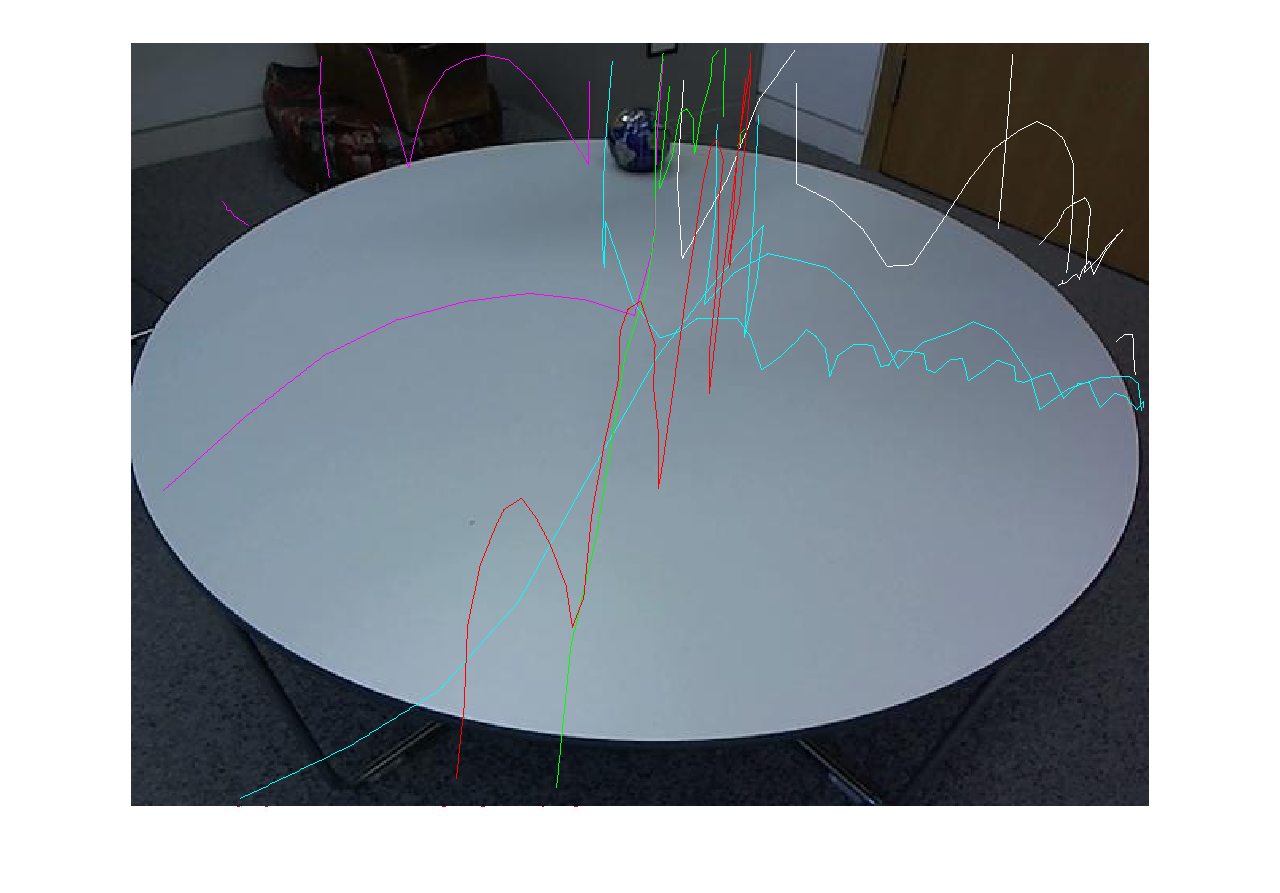
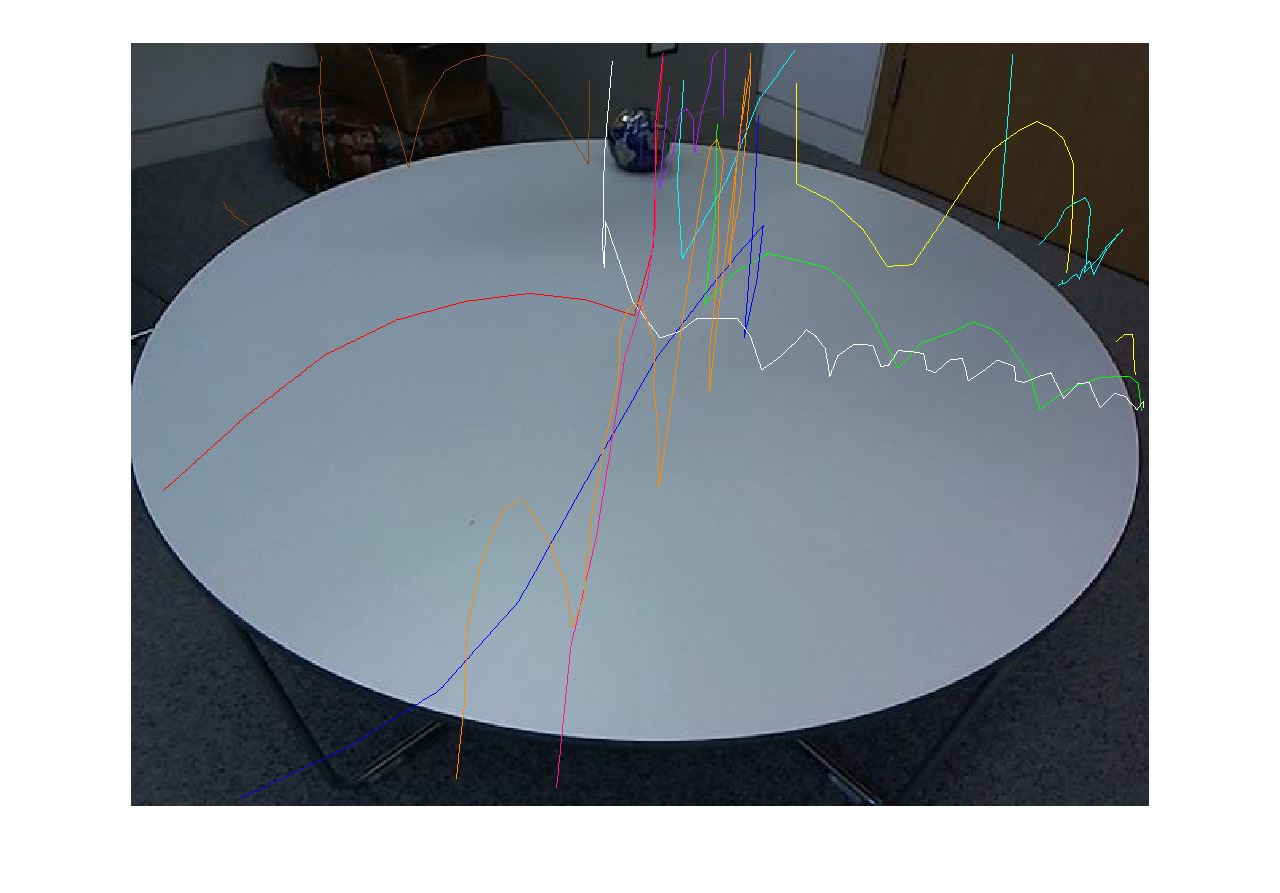
More colors

Changed region(s): [[0.5312, 0.0907, 0.5938, 0.3628], [0.5, 0.1512, 0.5312, 0.2116]]

diff --git a/draw_truth.m b/draw_truth.m
@@ -3,17 +3,15 @@ background = imread('bgframe.jpg');
 imshow(background)
 hold on
 
-COLORS = {'red', 'green', 'blue', 'yellow', 'cyan', 'black', 'white', 'magenta'};
+COLORS = {'red', 'green', 'blue', 'yellow', 'cyan', 'white', [255/255, 20/255, 147/255], [160/255, 32/255, 240/255], [139/255, 69/255, 19/255], [1, 140/255, 0]};
 
 num_balls = size(new_balls,2);
 
 for i = 1:num_balls
-    color_i = randi(max(size(COLORS)));
-    cc_color = COLORS{color_i};
     previous = new_balls(i).frame_numbers(1);
     for j = 2:size(new_balls(i).frame_numbers, 1)
         if previous + 1 == new_balls(i).frame_numbers(j)
-            draw_line(new_balls(i).row_of_centers(j), new_balls(i).col_of_centers(j), new_balls(i).row_of_centers(j-1), new_balls(i).col_of_centers(j-1), cc_color)
+            draw_line(new_balls(i).row_of_centers(j), new_balls(i).col_of_centers(j), new_balls(i).row_of_centers(j-1), new_balls(i).col_of_centers(j-1), COLORS{i})
         end
         previous = new_balls(i).frame_numbers(j);
     end

diff --git a/update_ball_tracking.m b/update_ball_tracking.m
@@ -4,7 +4,7 @@ function [ ball_history ] = update_ball_tracking( current_conn_comps, current_fr
     FRAME_X = size(current_frame, 1);
     FRAME_Y = size(current_frame, 1);
     
-    COLORS = {'red', 'green', 'blue', 'yellow', 'cyan', 'black', 'white', 'magenta'};
+    COLORS = {'red', 'green', 'blue', 'yellow', 'cyan', 'black', 'white', [255/255, 20/255, 147/255], [160/255, 32/255, 240/255], [139/255, 69/255, 19/255], [1, 140/255, 0], [0, 100/255, 0], [1, 222/255, 173/255]};
     
     % Distance function parameters - have tried to normalize these to ~1 
     A = 1 / (FRAME_X * FRAME_Y);  % Area
